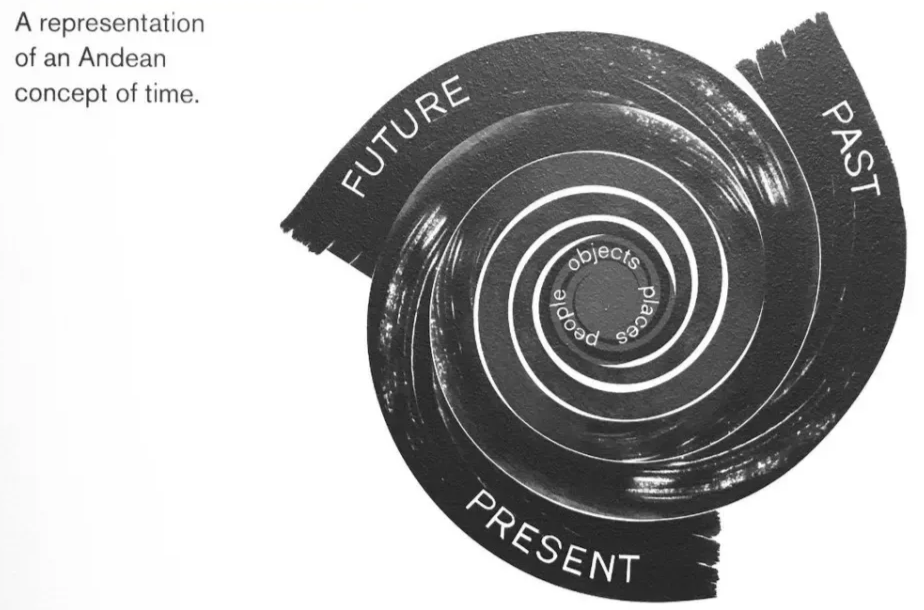
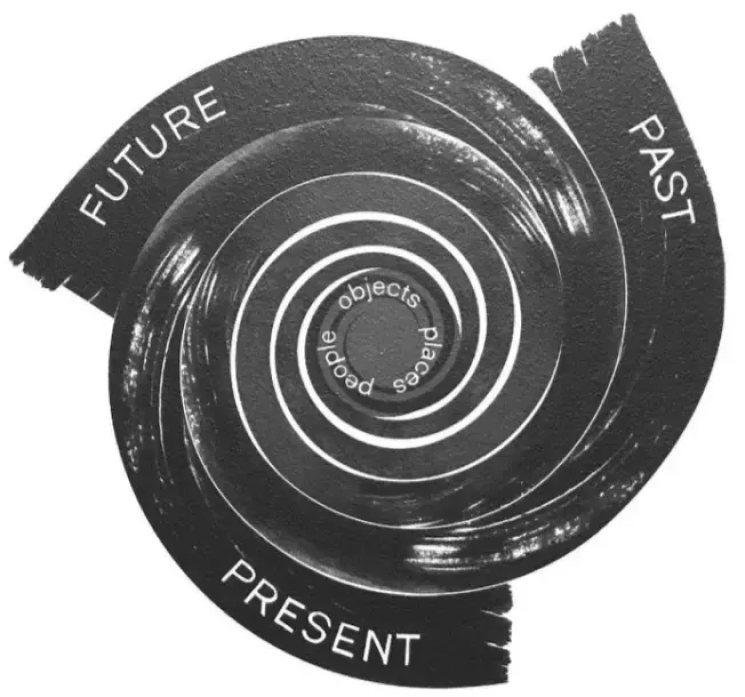
Make fixes and conform to the design

diff --git a/css/styles.css b/css/styles.css
@@ -2051,9 +2051,10 @@ Uses cream background with dashed border and flexible layout.
 /* .about-layout
    Two-column layout: sticky sidebar + main content */
 .about-layout {
-    display: flex;
+    display: grid;
+    grid-template-columns: auto 1fr;
     gap: 5.55556rem;
-    align-items: flex-start;
+    align-items: start;
 }
 
 /* .about-sidebar
@@ -2083,13 +2084,14 @@ Uses cream background with dashed border and flexible layout.
 }
 
 /* .about-content
-   Main content column */
+   Main content column - centered within its grid cell on large screens */
 .about-content {
-    flex: 1;
     max-width: 787px;
     display: flex;
     flex-direction: column;
     gap: 6.66667rem;
+    justify-self: center;
+    overflow: visible;
 }
 
 /* .about-section
@@ -2188,22 +2190,24 @@ Uses cream background with dashed border and flexible layout.
 }
 
 /* .about-quote-indent
-   Indentation for first quote */
+   First quote breaks out to the right of the content frame */
 .about-quote-indent {
-    padding-left: 11.55556rem;
+    margin-left: 26%;
+    width: 100%;
 }
 
 /* .about-quote-with-image
-   Quote displayed alongside image */
+   Quote displayed alongside image - image at left edge, quote breaks out right */
 .about-quote-with-image {
     display: flex;
     gap: 2.22222rem;
     align-items: flex-start;
+    width: 126%;
 }
 
 .about-quote-with-image .about-figure {
     flex-shrink: 0;
-    max-width: 20rem;
+    width: 45%;
 }
 
 .about-quote-with-image .about-quote {
@@ -2211,9 +2215,10 @@ Uses cream background with dashed border and flexible layout.
 }
 
 /* .about-what-if
-   "What if..." highlighted section */
+   "What if..." section breaks out to the right of the content frame */
 .about-what-if {
-    padding-left: 11.55556rem;
+    margin-left: 26%;
+    width: 100%;
 }
 
 .about-what-if-label {
@@ -2387,6 +2392,7 @@ Uses cream background with dashed border and flexible layout.
 .about-figure img {
     max-width: 100%;
     height: auto;
+    mix-blend-mode: multiply;
 }
 
 .about-figure figcaption {
@@ -2398,8 +2404,41 @@ Uses cream background with dashed border and flexible layout.
 }
 
 /* Responsive layout for About page */
+
+/* Intermediate breakpoint - reduce offset */
+@media (max-width: 1400px) {
+    .about-quote-indent {
+        margin-left: 18%;
+    }
+
+    .about-quote-with-image {
+        width: 118%;
+    }
+
+    .about-what-if {
+        margin-left: 18%;
+    }
+}
+
+/* Smaller screens - further reduce offset */
+@media (max-width: 1100px) {
+    .about-quote-indent {
+        margin-left: 10%;
+    }
+
+    .about-quote-with-image {
+        width: 110%;
+    }
+
+    .about-what-if {
+        margin-left: 10%;
+    }
+}
+
+/* Mobile layout - no offset */
 @media (max-width: 900px) {
     .about-layout {
+        display: flex;
         flex-direction: column;
         gap: 2.22222rem;
     }
@@ -2412,19 +2451,22 @@ Uses cream background with dashed border and flexible layout.
     }
 
     .about-quote-indent {
-        padding-left: 0;
+        margin-left: 0;
+        width: 100%;
     }
 
     .about-quote-with-image {
         flex-direction: column;
+        width: 100%;
     }
 
     .about-quote-with-image .about-figure {
-        max-width: 100%;
+        width: 100%;
     }
 
     .about-what-if {
-        padding-left: 0;
+        margin-left: 0;
+        width: 100%;
     }
 }
 

diff --git a/templates/about.html b/templates/about.html
@@ -62,7 +62,6 @@
                         <div class="about-quote-with-image">
                             <figure class="about-figure">
                                 <img src="/static/andean-time-spiral.png" alt="A representation of an Andean concept of time, showing a spiral with Future, Past, and Present interconnected, with objects, places, and people at the centre.">
-                                <figcaption>A representation of an Andean concept of time.</figcaption>
                             </figure>
 
                             <blockquote class="about-quote">